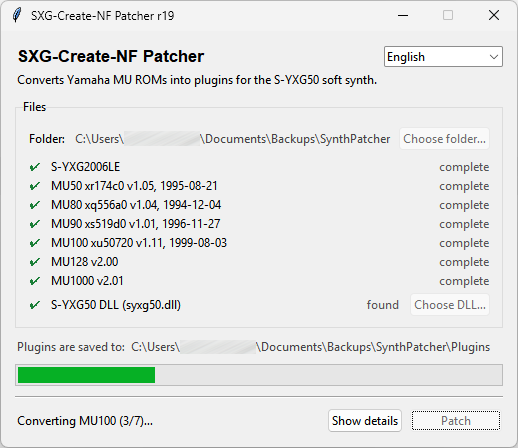
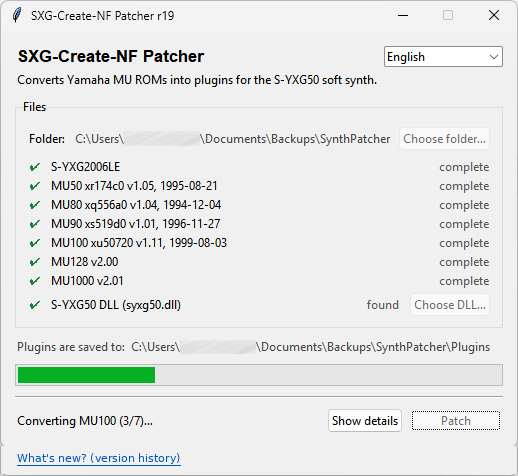
Patcher: link to the version history at the bottom of the window
Summary: Patcher shows a "What's new? (version history)" link that opens docs/versions.md.

Description:
- Link in a new row at the bottom of the window (window grows downwards), 29 languages.
- README and version history mention it; patcher preview image updated.

Claude-Session: https://claude.ai/code/session_01WhLsyGi7JT29HE7AyDQrFi

diff --git a/patcher_i18n.py b/patcher_i18n.py
@@ -93,6 +93,7 @@ TEXT = {
   upd_fail='فشل التحديث: {err}',
   upd_none='لديك بالفعل أحدث إصدار ({ver}).',
   upd_checking='جارٍ البحث عن تحديثات…',
+  whatsnew='ما الجديد؟ (سجل الإصدارات)',
   ),
  'id': dict(
   intro='Mengonversi ROM Yamaha MU menjadi plugin untuk synthesizer perangkat lunak S-YXG50.',
@@ -122,6 +123,7 @@ TEXT = {
   upd_fail='Pembaruan gagal: {err}',
   upd_none='Anda sudah memiliki versi terbaru ({ver}).',
   upd_checking='Memeriksa pembaruan…',
+  whatsnew='Apa yang baru? (riwayat versi)',
   ),
  'bn': dict(
   intro='Yamaha MU ROM-কে S-YXG50 সফট সিন্থের প্লাগইনে রূপান্তর করে।',
@@ -151,6 +153,7 @@ TEXT = {
   upd_fail='আপডেট ব্যর্থ হয়েছে: {err}',
   upd_none='আপনার কাছে ইতিমধ্যেই সর্বশেষ সংস্করণ ({ver}) আছে।',
   upd_checking='আপডেট খোঁজা হচ্ছে…',
+  whatsnew='নতুন কী? (সংস্করণের ইতিহাস)',
   ),
  'cs': dict(
   intro='Převádí ROM syntezátorů Yamaha MU na pluginy pro softwarový syntezátor S-YXG50.',
@@ -180,6 +183,7 @@ TEXT = {
   upd_fail='Aktualizace se nezdařila: {err}',
   upd_none='Již máte nejnovější verzi ({ver}).',
   upd_checking='Hledají se aktualizace…',
+  whatsnew='Co je nového? (historie verzí)',
   ),
  'da': dict(
   intro='Konverterer Yamaha MU-ROM’er til plugins til software-synthesizeren S-YXG50.',
@@ -209,6 +213,7 @@ TEXT = {
   upd_fail='Opdateringen mislykkedes: {err}',
   upd_none='Du har allerede den nyeste version ({ver}).',
   upd_checking='Søger efter opdateringer…',
+  whatsnew='Hvad er nyt? (versionshistorik)',
   ),
  'de': dict(
   intro='Wandelt Yamaha-MU-ROMs in Plugins für den Software-Synthesizer S-YXG50 um.',
@@ -238,6 +243,7 @@ TEXT = {
   upd_fail='Update fehlgeschlagen: {err}',
   upd_none='Sie haben bereits die neueste Version ({ver}).',
   upd_checking='Suche nach Updates…',
+  whatsnew='Was ist neu? (Versionsgeschichte)',
   ),
  'el': dict(
   intro='Μετατρέπει τις ROM των Yamaha MU σε πρόσθετα για το λογισμικό συνθεσάιζερ S-YXG50.',
@@ -267,6 +273,7 @@ TEXT = {
   upd_fail='Η ενημέρωση απέτυχε: {err}',
   upd_none='Έχετε ήδη την πιο πρόσφατη έκδοση ({ver}).',
   upd_checking='Έλεγχος για ενημερώσεις…',
+  whatsnew='Τι νέο υπάρχει; (ιστορικό εκδόσεων)',
   ),
  'en': dict(
   intro='Converts Yamaha MU ROMs into plugins for the S-YXG50 soft synth.',
@@ -296,6 +303,7 @@ TEXT = {
   upd_fail='Update failed: {err}',
   upd_none='You already have the newest version ({ver}).',
   upd_checking='Checking for updates…',
+  whatsnew="What's new? (version history)",
   ),
  'es': dict(
   intro='Convierte las ROM de Yamaha MU en plugins para el sintetizador por software S-YXG50.',
@@ -325,6 +333,7 @@ TEXT = {
   upd_fail='Error en la actualización: {err}',
   upd_none='Ya tiene la versión más reciente ({ver}).',
   upd_checking='Buscando actualizaciones…',
+  whatsnew='¿Qué hay de nuevo? (historial de versiones)',
   ),
  'fa': dict(
   intro='ROMهای Yamaha MU را به پلاگین برای سینتیسایزر نرم\u200cافزاری S-YXG50 تبدیل می\u200cکند.',
@@ -354,6 +363,7 @@ TEXT = {
   upd_fail='به\u200cروزرسانی ناموفق بود: {err}',
   upd_none='شما از قبل جدیدترین نسخه ({ver}) را دارید.',
   upd_checking='در حال جست\u200cوجوی به\u200cروزرسانی…',
+  whatsnew='چه چیز جدید است؟ (تاریخچهٔ نسخهها)',
   ),
  'fr': dict(
   intro='Convertit les ROM Yamaha MU en plugins pour le synthétiseur logiciel S-YXG50.',
@@ -383,6 +393,7 @@ TEXT = {
   upd_fail='Échec de la mise à jour : {err}',
   upd_none='Vous avez déjà la version la plus récente ({ver}).',
   upd_checking='Recherche de mises à jour…',
+  whatsnew='Nouveautés (historique des versions)',
   ),
  'ko': dict(
   intro='Yamaha MU의 ROM을 S-YXG50 소프트 신시사이저용 플러그인으로 변환합니다.',
@@ -412,6 +423,7 @@ TEXT = {
   upd_fail='업데이트 실패: {err}',
   upd_none='이미 최신 버전({ver})을 사용 중입니다.',
   upd_checking='업데이트 확인 중…',
+  whatsnew='새로운 기능 (버전 기록)',
   ),
  'hi': dict(
   intro='Yamaha MU ROM को S-YXG50 सॉफ़्ट सिंथ के प्लगइन में बदलता है।',
@@ -441,6 +453,7 @@ TEXT = {
   upd_fail='अपडेट विफल रहा: {err}',
   upd_none='आपके पास पहले से नवीनतम संस्करण ({ver}) है।',
   upd_checking='अपडेट जाँचे जा रहे हैं…',
+  whatsnew='नया क्या है? (संस्करण इतिहास)',
   ),
  'it': dict(
   intro='Converte le ROM Yamaha MU in plugin per il sintetizzatore software S-YXG50.',
@@ -470,6 +483,7 @@ TEXT = {
   upd_fail='Aggiornamento non riuscito: {err}',
   upd_none='Ha già la versione più recente ({ver}).',
   upd_checking='Ricerca di aggiornamenti…',
+  whatsnew='Novità (cronologia delle versioni)',
   ),
  'he': dict(
   intro='ממיר קובצי ROM של Yamaha MU לתוספים עבור הסינתיסייזר התוכנתי S-YXG50.',
@@ -499,6 +513,7 @@ TEXT = {
   upd_fail='העדכון נכשל: {err}',
   upd_none='כבר יש לך את הגרסה העדכנית ביותר ({ver}).',
   upd_checking='בודק אם יש עדכונים…',
+  whatsnew='מה חדש? (היסטוריית גרסאות)',
   ),
  'hu': dict(
   intro='A Yamaha MU ROM-okat pluginekké alakítja az S-YXG50 szoftveres szintetizátorhoz.',
@@ -528,6 +543,7 @@ TEXT = {
   upd_fail='A frissítés nem sikerült: {err}',
   upd_none='Már a legújabb verziót használja ({ver}).',
   upd_checking='Frissítések keresése…',
+  whatsnew='Újdonságok (verziótörténet)',
   ),
  'nl': dict(
   intro="Zet Yamaha MU-ROM's om in plug-ins voor de softwaresynthesizer S-YXG50.",
@@ -557,6 +573,7 @@ TEXT = {
   upd_fail='Bijwerken mislukt: {err}',
   upd_none='U heeft al de nieuwste versie ({ver}).',
   upd_checking='Zoeken naar updates…',
+  whatsnew='Wat is er nieuw? (versiegeschiedenis)',
   ),
  'ja': dict(
   intro='Yamaha MU の ROM を S-YXG50 ソフトシンセ用プラグインに変換します。',
@@ -586,6 +603,7 @@ TEXT = {
   upd_fail='更新に失敗しました: {err}',
   upd_none='すでに最新バージョン ({ver}) をお使いです。',
   upd_checking='更新を確認中…',
+  whatsnew='新機能 (バージョン履歴)',
   ),
  'pl': dict(
   intro='Konwertuje pamięci ROM Yamaha MU na wtyczki do programowego syntezatora S-YXG50.',
@@ -615,6 +633,7 @@ TEXT = {
   upd_fail='Aktualizacja nie powiodła się: {err}',
   upd_none='Używana wersja jest już najnowsza ({ver}).',
   upd_checking='Sprawdzanie aktualizacji…',
+  whatsnew='Co nowego? (historia wersji)',
   ),
  'pt': dict(
   intro='Converte ROMs Yamaha MU em plugins para o sintetizador de software S-YXG50.',
@@ -644,6 +663,7 @@ TEXT = {
   upd_fail='A atualização falhou: {err}',
   upd_none='Já tem a versão mais recente ({ver}).',
   upd_checking='A procurar atualizações…',
+  whatsnew='Novidades (histórico de versões)',
   ),
  'ro': dict(
   intro='Convertește ROM-urile Yamaha MU în pluginuri pentru sintetizatorul software S-YXG50.',
@@ -673,6 +693,7 @@ TEXT = {
   upd_fail='Actualizarea a eșuat: {err}',
   upd_none='Aveți deja cea mai nouă versiune ({ver}).',
   upd_checking='Se caută actualizări…',
+  whatsnew='Noutăți (istoricul versiunilor)',
   ),
  'ru': dict(
   intro='Преобразует ПЗУ Yamaha MU в плагины для программного синтезатора S-YXG50.',
@@ -702,6 +723,7 @@ TEXT = {
   upd_fail='Не удалось обновить: {err}',
   upd_none='У вас уже установлена последняя версия ({ver}).',
   upd_checking='Поиск обновлений…',
+  whatsnew='Что нового? (история версий)',
   ),
  'sr': dict(
   intro='Претвара Yamaha MU ROM-ове у плагинове за софтверски синтисајзер S-YXG50.',
@@ -731,6 +753,7 @@ TEXT = {
   upd_fail='Ажурирање није успело: {err}',
   upd_none='Већ имате најновију верзију ({ver}).',
   upd_checking='Тражење ажурирања…',
+  whatsnew='Шта је ново? (историја верзија)',
   ),
  'sv': dict(
   intro='Konverterar Yamaha MU-ROM:ar till plugins för mjukvarusyntesen S-YXG50.',
@@ -760,6 +783,7 @@ TEXT = {
   upd_fail='Uppdateringen misslyckades: {err}',
   upd_none='Du har redan den senaste versionen ({ver}).',
   upd_checking='Söker efter uppdateringar…',
+  whatsnew='Vad är nytt? (versionshistorik)',
   ),
  'th': dict(
   intro='แปลง ROM ของ Yamaha MU เป็นปลั๊กอินสำหรับซอฟต์ซินธ์ S-YXG50',
@@ -789,6 +813,7 @@ TEXT = {
   upd_fail='อัปเดตไม่สำเร็จ: {err}',
   upd_none='คุณมีเวอร์ชันล่าสุดอยู่แล้ว ({ver})',
   upd_checking='กำลังตรวจหาการอัปเดต…',
+  whatsnew='มีอะไรใหม่? (ประวัติเวอร์ชัน)',
   ),
  'vi': dict(
   intro='Chuyển đổi ROM Yamaha MU thành plugin cho bộ tổng hợp âm thanh phần mềm S-YXG50.',
@@ -818,6 +843,7 @@ TEXT = {
   upd_fail='Cập nhật không thành công: {err}',
   upd_none='Bạn đã có phiên bản mới nhất ({ver}).',
   upd_checking='Đang kiểm tra bản cập nhật…',
+  whatsnew='Có gì mới? (lịch sử phiên bản)',
   ),
  'tr': dict(
   intro="Yamaha MU ROM'larını S-YXG50 yazılım sentezleyicisi için eklentilere dönüştürür.",
@@ -847,6 +873,7 @@ TEXT = {
   upd_fail='Güncelleme başarısız: {err}',
   upd_none='Zaten en yeni sürüme sahipsiniz ({ver}).',
   upd_checking='Güncellemeler denetleniyor…',
+  whatsnew='Yenilikler (sürüm geçmişi)',
   ),
  'uk': dict(
   intro='Перетворює ПЗП Yamaha MU на плагіни для програмного синтезатора S-YXG50.',
@@ -876,6 +903,7 @@ TEXT = {
   upd_fail='Не вдалося оновити: {err}',
   upd_none='У вас уже остання версія ({ver}).',
   upd_checking='Пошук оновлень…',
+  whatsnew='Що нового? (історія версій)',
   ),
  'zh': dict(
   intro='将 Yamaha MU 的 ROM 转换为 S-YXG50 软件合成器的插件。',
@@ -905,5 +933,6 @@ TEXT = {
   upd_fail='更新失败：{err}',
   upd_none='您已经使用最新版本 ({ver})。',
   upd_checking='正在检查更新…',
+  whatsnew='新增功能 (版本历史)',
   ),
 }

diff --git a/patcher.py b/patcher.py
@@ -12,9 +12,10 @@
 #   Update button (utility/selfupdate.py); `--no-update-check` (or SXG_NO_UPDATE_CHECK=1) leaves out the check at the start.
 #   Test options: --update-dir <folder with release files>, --update-test-version r<N>; --after-update <old> and
 #   --selftest-out <file> are used by the update itself.
-import sys, os, threading, queue, subprocess, locale
+import sys, os, threading, queue, subprocess, locale, webbrowser
 from pathlib import Path
 
+HISTORY_URL = 'https://github.com/NightFright2k19/SXG-Create-NF/blob/main/docs/versions.md'
 FROZEN = getattr(sys, 'frozen', False)
 HERE = Path(sys.executable).resolve().parent if FROZEN else Path(__file__).resolve().parent
 if FROZEN and sys.platform == 'darwin' and HERE.parent.name == 'Contents' :
@@ -124,6 +125,9 @@ def main_window() :
     det_btn = ttk.Button(frame); det_btn.grid(row = 6, column = 2, sticky = 'e', padx = 6)
     patch_btn = ttk.Button(frame, width = 14); patch_btn.grid(row = 6, column = 3, sticky = 'e')
     open_btn = ttk.Button(frame)
+    whatsnew = ttk.Label(frame, foreground = '#0057b8', cursor = 'hand2', font = ('TkDefaultFont', 9, 'underline'))   # a link, not a button
+    whatsnew.grid(row = 8, column = 0, columnspan = 4, sticky = 'w', pady = (8, 0))
+    whatsnew.bind('<Button-1>', lambda e : webbrowser.open(HISTORY_URL))
     cur = selfupdate.current(VERSION)
     upd_on = selfupdate.enabled(VERSION, FROZEN)
     # state: None, checking, new, current, error, load, verify, start, failed; quiet: no message (the check at the start)
@@ -145,7 +149,7 @@ def main_window() :
         target['text'] = T('target') + ':  ' + str(plugins_dir())
         key, kw = st['status']; status['text'] = T(key, **kw)
         det_btn['text'] = T('hide') if st['details'] else T('details')
-        patch_btn['text'] = T('patch'); open_btn['text'] = T('open_folder')
+        patch_btn['text'] = T('patch'); open_btn['text'] = T('open_folder'); whatsnew['text'] = T('whatsnew')
         can = not st['busy'] and st['models']
         patch_btn.state(['!disabled'] if can else ['disabled'])
         browse.state(['disabled'] if st['busy'] else ['!disabled'])

diff --git a/README.md b/README.md
@@ -36,6 +36,7 @@ The easiest way: download the patcher for your system from the newest **Autobuil
 
 - **Language:** the system language if available, else English; the menu at the top right switches between 29 languages, each shown in its own name and sorted alphabetically by the Latin spelling of that name: العربية, Bahasa Indonesia, বাংলা, Čeština, Dansk, Deutsch, Ελληνικά, English, Español, فارسی, Français, 한국어, हिन्दी, Italiano, עברית, Magyar, Nederlands, 日本語, Polski, Português, Română, Русский, Српски, Svenska, ไทย, Tiếng Việt, Türkçe, Українська, 中文.
 - **Show details** shows the converter's log (the same text the Python script prints).
+- **What's new? (version history)** at the bottom of the window is a link; it opens the [version history](docs/versions.md) on GitHub in the browser.
 - **Update** (issue #72): a moment after it has started, the patcher asks GitHub for the number of the newest Autobuild release (the redirect of the Latest page; no login, no API, nothing else is sent). If it is newer than the running one, **A newer version (rN) is available!** appears under the buttons. **Update** (left of **Show details**) then asks once (OK / Cancel), downloads the file for your system with a progress bar, checks its size and the SHA-256 that GitHub shows, lets the new version pass its own `--selftest`, and starts it; the old window closes. The new version goes into the folder of the patcher (that is where the ROMs are searched); if that folder is read-only, into your Downloads folder.
   - **Windows:** the new `SXG-Create-NF-Patcher-rN-windows.exe` is placed next to the old one, and the new patcher deletes the old one as soon as it has ended. Only a file with the official name `SXG-Create-NF-Patcher-rN-windows.exe` is deleted; a renamed copy stays.
   - **Linux:** the program file is replaced. **macOS:** the app is replaced; the old one is deleted by the new one after it has started.

diff --git a/docs/versions.md b/docs/versions.md
@@ -6,6 +6,7 @@ Releases before r14 were not kept. Releases that only touched the build or the d
 
 | Release | Date | Changes |
 |---|---|---|
+| next | | Patcher: link "What's new? (version history)" at the bottom of the window; version history added. |
 | r50 | 2026-10-21 | Build only: workflow cleanup, no change to the patcher or the plugins. |
 | r49 | 2026-10-21 | The port select command `F5 nn` is now ignored instead of switching the instance's channels (#74). |
 | r48 | 2026-10-21 | PRG digits turn red when a channel has no valid instrument (#73). |
